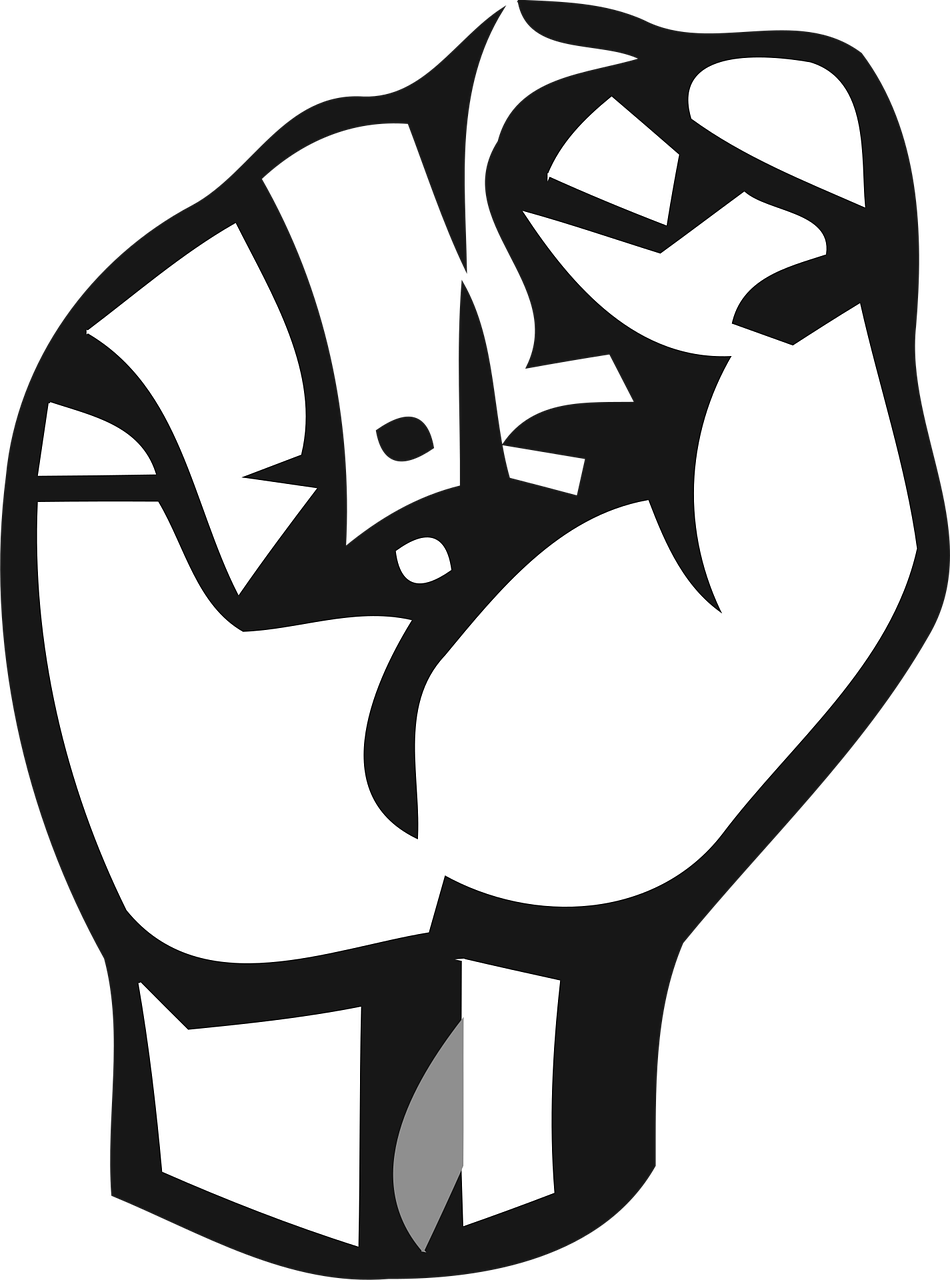
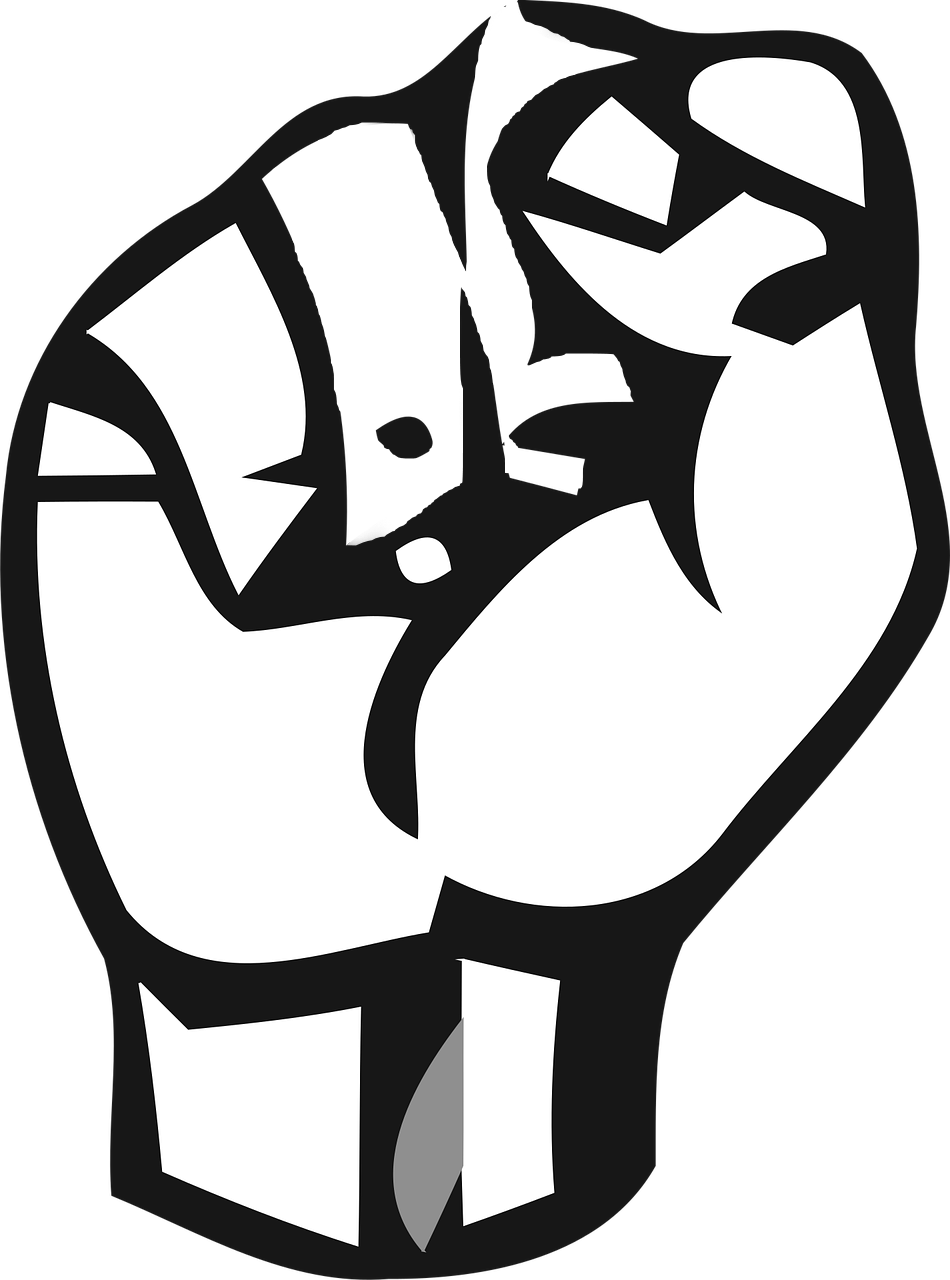
All Code done

diff --git a/script.js b/script.js
@@ -1,0 +1,89 @@
+const comScore = document.querySelector("#comScore")
+const playScore = document.querySelector("#playScore")
+
+const comSelect = document.querySelector("#comSelect")
+const playSelect = document.querySelector("#playSelect")
+
+const win = document.querySelector("#win")
+const playAgain = document.querySelector("#playAgain")
+const resetBtn = document.querySelector("#reset")
+
+const rockBtn = document.querySelector("#rock")
+const paperBtn = document.querySelector("#paper")
+const scissorBtn = document.querySelector("#scissor")
+
+let playerScore = 0
+let computerScore = 0
+
+function updateScore() {
+    playScore.textContent = playerScore
+    comScore.textContent = computerScore
+}
+
+function ComputerChoice() {
+    const choice = ["rock", "paper", "scissor"];
+    return choice[Math.floor(Math.random() * 3)];
+}
+
+function play(playerChoice) {
+    const computerChoice = ComputerChoice()
+
+    if (playerChoice === "rock") {
+        playSelect.innerHTML = `<p>Player Select:</p><img src="images/rock-sign.png">`
+    } else if (playerChoice === "paper") {
+        playSelect.innerHTML = `<p>Player Select:</p><img src="images/paper-sign.png">`
+    } else if (playerChoice === "scissor") {
+        playSelect.innerHTML = `<p>Player Select:</p><img src="images/scissor-sign.png">`
+    }
+
+    if (computerChoice === "rock") {
+        comSelect.innerHTML = `<p>Computer Select:</p><img src="images/rock-sign.png">`
+    } else if (computerChoice === "paper") {
+        comSelect.innerHTML = `<p>Computer Select:</p><img src="images/paper-sign.png">`
+    } else if (computerChoice === "scissor") {
+        comSelect.innerHTML = `<p>Computer Select:</p><img src="images/scissor-sign.png">`
+    }
+
+    if (playerChoice === computerChoice) {
+        win.textContent = "It's a Draw"
+    } else if ((playerChoice === "rock" && computerChoice === "scissor") ||
+        (playerChoice === "paper" && computerChoice === "rock") ||
+        (playerChoice === "scissor" && computerChoice === "paper")) {
+        win.textContent = "Player Win"
+        playerScore++
+    } else {
+        win.textContent = "Computer Win"
+        computerScore++
+    }
+
+    updateScore()
+};
+
+rockBtn.addEventListener("click", () => {
+    play("rock")
+});
+
+paperBtn.addEventListener("click", () => {
+    play("paper")
+});
+
+scissorBtn.addEventListener("click", () => {
+    play("scissor")
+});
+
+playAgain.addEventListener("click", () => {
+    win.textContent = ""
+    playSelect.innerHTML = "Player Select:"
+    comSelect.innerHTML = "Computer Select:"
+});
+
+resetBtn.addEventListener("click", () => {
+  playerScore = 0;
+  computerScore = 0;
+  updateScore();
+  playSelect.innerHTML = "<p>Player Select</p>";
+  comSelect.innerHTML = "<p>Computer Select</p>";
+  win.textContent = "";
+});
+
+updateScore()

diff --git a/css/style.css b/css/style.css
@@ -3,6 +3,12 @@
     margin: 0 auto;
 }
 
+img {
+    max-width: 100%;
+    height: 100%;
+    margin-top: 10px;
+}
+
 body {
   width: 100%;
   height: 100%;
@@ -20,7 +26,6 @@ header {
   border: 1px solid white;
   margin-top: 10px;
   border-radius: 10px;
-  box-shadow: 0 0 10px white, 0 0 25px gray, 0 0 40px white;
 }
 
 
@@ -50,7 +55,7 @@ header {
 
 main {
     width: 60%;
-    height: 400px;
+    height: 380px;
     margin-top: 30px;
     display: flex;
     gap: 10px;
@@ -64,7 +69,7 @@ main div {
 }
 
 #win {
-    height: 200px;
+    height: 50px;
 }
 
 #playAgain, #reset {
@@ -83,6 +88,41 @@ main div {
     background-color: whitesmoke;
     color: rgb(15, 15, 48);
     border: 1px solid rgb(15, 15, 48);
-    box-shadow: 0 0 10px rgba(245, 245, 245, 0.8), 0 0 25px rgba(245, 245, 245, 0.8);
+    transition: 700ms linear;
+}
+
+#comSelect, #playSelect {
+    align-content: start;
+}
+
+footer {
+    width: 60%;
+    height: 70px;
+    margin-top: 30px;
+    border: 1px solid white;
+    border-radius: 10px;
+    gap: 10px;
+    align-content: center;
+    text-align: center;
+    padding: 10px 10px;
+}
+
+footer button {
+    width: 150px;
+    height: 50px;
+    border: 1px solid whitesmoke;
+    border-radius: 10px;
+    color: whitesmoke;
+    text-transform: uppercase;
+    font-weight: 600;
+    background-color: transparent;
+    margin-bottom: 10px;
+    margin-right: 10px;
+}
+
+footer button:hover {
+    background-color: whitesmoke;
+    color: rgb(15, 15, 48);
+    border: 1px solid rgb(15, 15, 48);
     transition: 700ms linear;
 }

diff --git a/index.html b/index.html
@@ -13,24 +13,29 @@
       <div class="title"><h1>Rock Paper Scissors</h1></div>
       <div class="computer">
         <h2>Computer</h2>
-        <div id="comScore"></div>
+        <div id="comScore">0</div>
       </div>
       <div class="player">
         <h2>Player</h2>
-        <div id="playScore"></div>
+        <div id="playScore">0</div>
       </div>
     </header>
     <main>
-        <div id="comSelect"></div>
+        <div id="comSelect">
+          <p>Computer Select</p>
+        </div>
         <div>
             <h2 id="win"></h2>
             <button id="playAgain">Play Again</button>
             <button id="reset">Reset Score</button>
         </div>
-        <div id="PlaySelect"></div>
+        <div id="playSelect">
+          <p>Player Select</p>
+        </div>
     </main>
     <footer>
-        <button>Rock</button><button>Paper</button><button>Scissor</button>
+        <button id="rock">Rock</button><button id="paper">Paper</button><button id="scissor">Scissor</button>
     </footer>
+    <script src="./script.js"></script>
   </body>
 </html>
